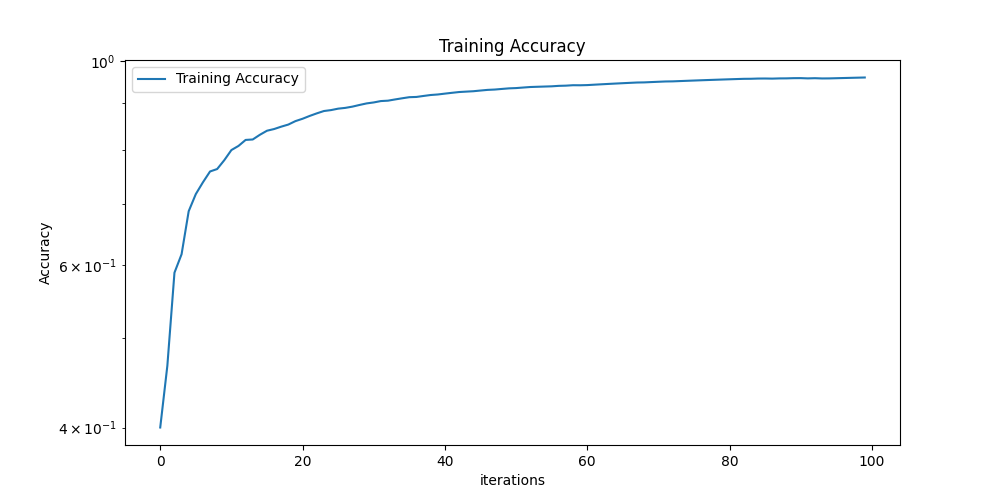
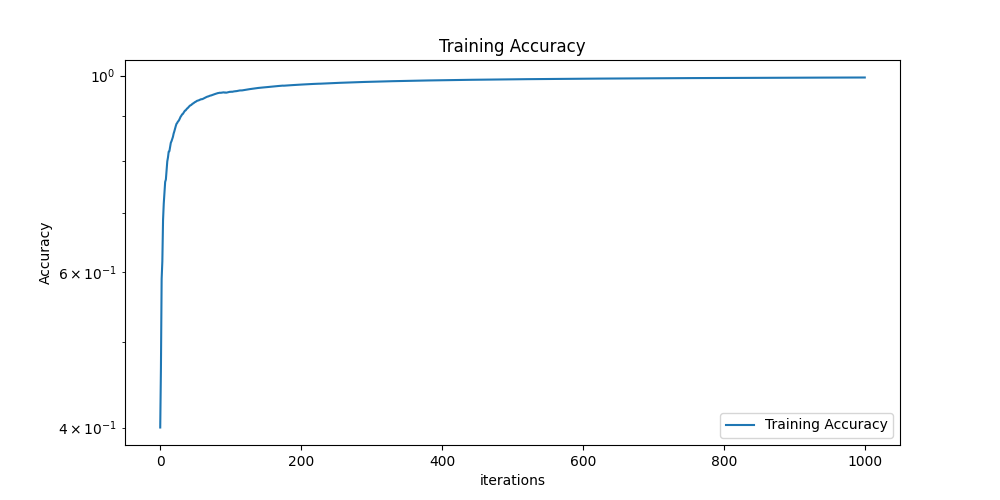
refactor code with comments for protonet

diff --git a/few_shot_learning/validation/prototypical_model.py b/few_shot_learning/validation/prototypical_model.py
@@ -1,5 +1,4 @@
 #!/usr/bin/env python3
-from tkinter.filedialog import test
 import torch
 from torch import nn
 from torch.utils.data import DataLoader
@@ -18,12 +17,33 @@ from sklearn.metrics import classification_report
 from omegaconf import OmegaConf
 import torchvision
 
-random_seed = 0
-np.random.seed(random_seed)
-torch.manual_seed(random_seed)
-random.seed(random_seed)
-torch.backends.cudnn.deterministic = True
-torch.backends.cudnn.benchmark = False
+seed_value = 0
+
+def reproducability_config(random_seed :  int = 0) -> None: 
+    '''
+    Improving reproducability of the experiments by configuring determinability. 
+    However, completely reproducible results are not guaranteed
+    even when using identical seeds.
+    https://pytorch.org/docs/stable/notes/randomness.html
+    '''
+
+    np.random.seed(random_seed)
+    torch.manual_seed(random_seed)
+    random.seed(random_seed)
+    torch.backends.cudnn.deterministic = True
+    torch.backends.cudnn.benchmark = False
+
+reproducability_config(seed_value)
+
+def seed_worker():
+    '''Preserving reproducability in dataloaders'''
+
+    worker_seed = torch.initial_seed() % 2**32
+    np.random.seed(worker_seed)
+    random.seed(worker_seed)
+
+g = torch.Generator()
+g.manual_seed(seed_value)
 
 image_size = 224  #setting the image size
 
@@ -53,7 +73,14 @@ fsl_dataset = datasets.ImageFolder(root = dir, transform = transforms.Compose(
 
 
 class PrototypicalNetworkModel(nn.Module):
+    '''
+    Class for the prototypical network, adapted from 
+    https://github.com/sicara/easy-few-shot-learning
+    '''
+
     def __init__(self, backbone: nn.Module):
+        '''Initializing with backbone model'''
+
         super(PrototypicalNetworkModel, self).__init__()
         self.backbone = backbone
 
@@ -70,13 +97,11 @@ class PrototypicalNetworkModel(nn.Module):
         z_support = self.backbone.forward(support_images)
         z_query = self.backbone.forward(query_images)
 
-
         n_way = len(torch.unique(support_labels))
 
         z_proto_median = torch.cat(
             [
                 z_support[torch.nonzero(support_labels == label)].median(dim = 0)[0]
-                
                 for label in range(n_way)
             ]
         )
@@ -84,7 +109,6 @@ class PrototypicalNetworkModel(nn.Module):
         z_proto_mean = torch.cat(
             [
                 z_support[torch.nonzero(support_labels == label)].mean(dim = 0)
-                
                 for label in range(n_way)
             ]
         )
@@ -93,6 +117,8 @@ class PrototypicalNetworkModel(nn.Module):
         #Eucledian distance metric
         
         def pairwise(z_query, z_proto):
+            '''Calculates the pairwise distance between two torch tensors'''
+
             pdist = nn.PairwiseDistance(p=2)
             d1 = []
             for j in range(0, len(z_query)):
@@ -103,6 +129,11 @@ class PrototypicalNetworkModel(nn.Module):
             return(torch.FloatTensor(d1).to(device))
 
         def cosinesimilarity(z_query, z_proto):
+            '''
+            Calculates the pairwise distance between two torch tensors
+            #NEEDS FIX
+            '''
+
             cos1 = nn.CosineSimilarity(dim=0, eps=1e-6)
             d1 = []
             for j in range(0, len(z_query)):
@@ -150,13 +181,7 @@ N_EVALUATION_TASKS = 50
 
 #Setting the seed value to 0 to enable reproducability of results
 
-def seed_worker():
-    worker_seed = torch.initial_seed() % 2**32
-    np.random.seed(worker_seed)
-    random.seed(worker_seed)
 
-g = torch.Generator()
-g.manual_seed(0)
 
 fsl_dataset.labels = fsl_dataset.targets
 test_sampler = TaskSampler(
@@ -169,7 +194,7 @@ test_loader = DataLoader(
     batch_sampler=test_sampler,
     #num_workers=1,
     pin_memory=True,
-    worker_init_fn= seed_worker,
+   worker_init_fn= seed_worker,
     collate_fn=test_sampler.episodic_collate_fn,
 )
 
@@ -347,8 +372,3 @@ def plot_images():
 # plt.xlabel('Vessel Classes')
 
 # #plt.show()
-
-
-from sklearn.decomposition import PCA
-from sklearn.manifold import TSNE
-from matplotlib import cm

diff --git a/few_shot_learning/validation/episodal_training.py b/few_shot_learning/validation/episodal_training.py
@@ -65,7 +65,7 @@ N_SHOT = 5 # Number of images per class
 N_QUERY = 5 # Number of images per class in the query set
 N_EVALUATION_TASKS = 50
 
-N_TRAINING_EPISODES = 100
+N_TRAINING_EPISODES = 1000
 N_VALIDATION_TASKS_2 = 100
 
 #train_dataset.get_labels = lambda: [instance[1] for instance in train_dataset._flat_character_images]
@@ -218,7 +218,7 @@ def select_model(mode):
 
 # 1 - Custom trained ResNet18
 # 2 - Pretrained ResNet18 
-convolutional_network = select_model(1)
+convolutional_network = select_model(2)
 
 model = PrototypicalNetworkModel(convolutional_network)
 device = torch.device("cuda:0" if torch.cuda.is_available() else "cpu")
@@ -356,7 +356,7 @@ def perf_plot(Metric, value):
     plt.yscale('log')
     plt.legend()
 perf_plot('Accuracy', all_acc)
-plt.savefig(plot_dir+'protonet_train_acc.png')
+plt.savefig(plot_dir+'pre_protonet_train_acc.png')
 
 perf_plot('Loss', all_loss)
-plt.savefig(plot_dir+'protonet_train_loss.png')
+plt.savefig(plot_dir+'pre_protonet_train_loss.png')
